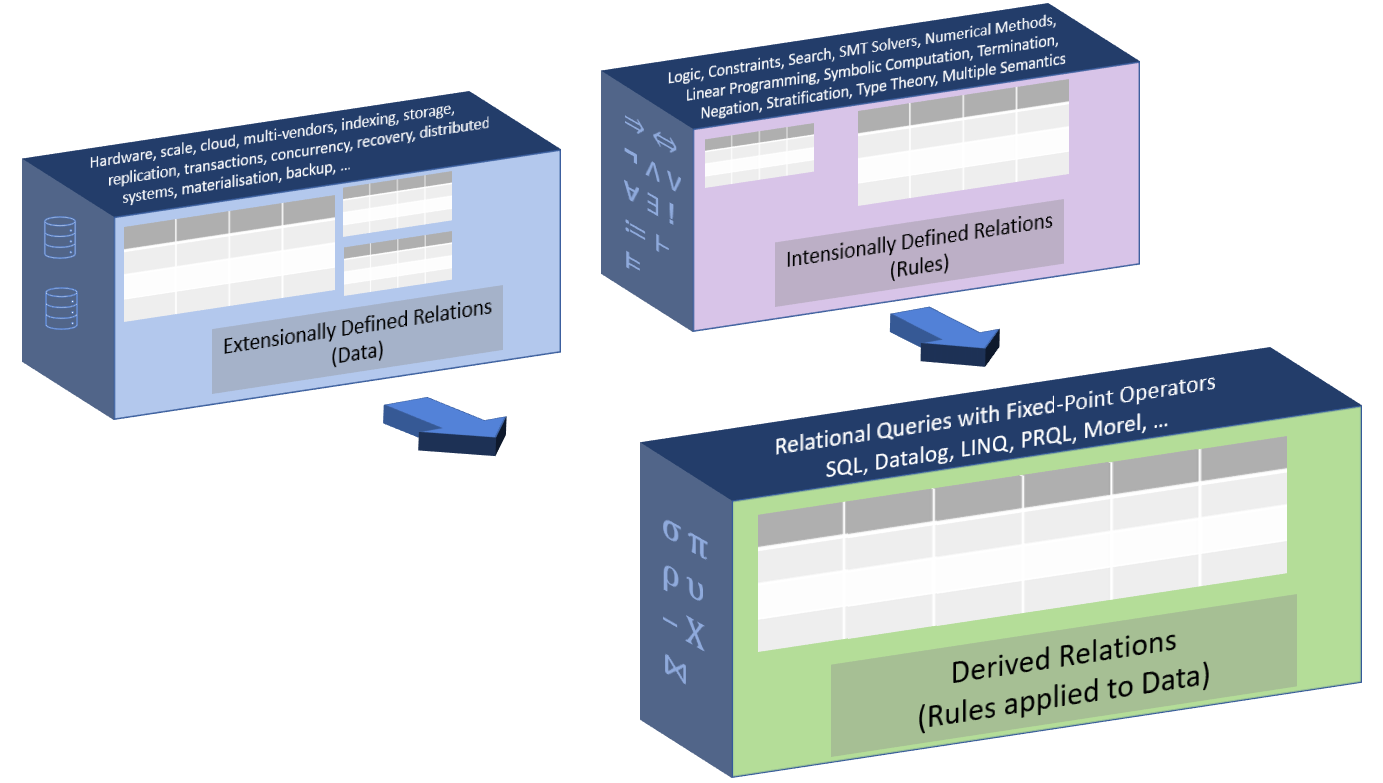
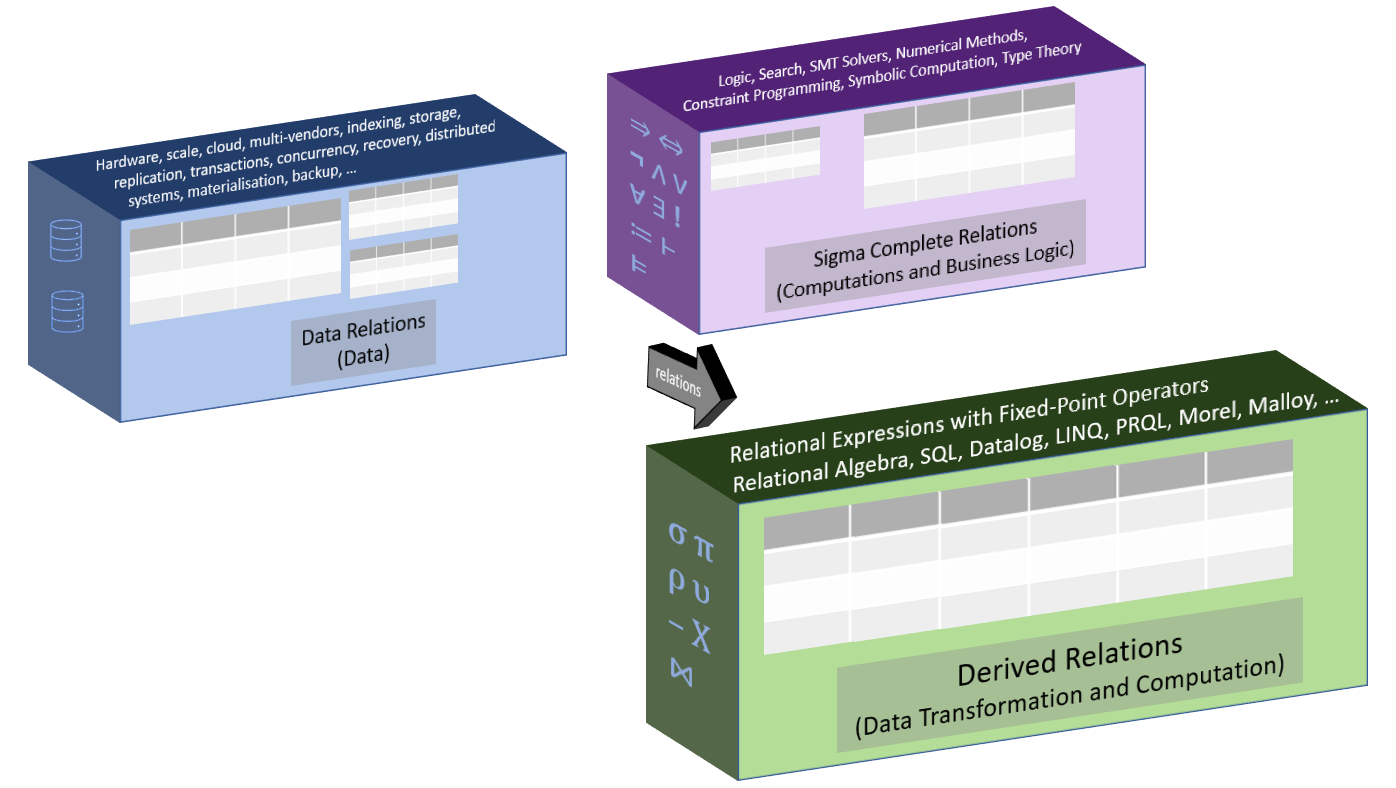
Update 1 to align with conference submission

diff --git a/README.md b/README.md
@@ -2,21 +2,21 @@
 
 <img align="right" width="100" height="100" src="images/jetisu_logo.png">
 
-Jetisu is a toolset for modelling with __intensionally defined relations__.
+Jetisu is a toolset for modelling with __sigma complete relations__.
 - a "__relation__" is a table with columns and rows,
-- "__intensionally defined__" means the table is not defined a list of rows, or derived from other tables, but defined by computable rules.
+- "__sigma complete__" means the table started its life complete and has been shaped by a relational algebraic σ operator (`WHERE` clause).
 
-## Doing for computation and rules what the relational model did for data
+To use an artisanal metaphor complete relations are like a raw block of stone. The `WHERE` clause is like the sculptor's hammer that shapes a stature. And the sigma complete relation is like the finished statue that represents any computable relation.
+
+## Doing for computation and business rules what the relational model did for data
 Prior to the advent of the relational model, programmers' mental model of data spanned multiple levels of abstraction and required them to procedurally navigate either hierarchies or networks to access data. The relational model challenged this approach and provided a stable and robust mental model of data for programmers to use (Schemas and Relational Queries).  
 
-One of the relational model's key benefits is that programmers were, to a greater extent, insulated from innovation in database technologies. This isolation reduced, or removed, the cost of adoption of innovations in technologies such as: hardware, caching, virtualisation, cryptography, storage, sharding, redundancy, indexing, query optimisation, distributed systems, etc.
-
-The Jetisu Toolkit is exploring the possibility that the relational model can do for rules and code what it did for data. And provide a stable and robust mental model of rules for programmers to use (Schemas and Relational Queries). The following diagram is a representation of what this might look like:
+The Jetisu Toolkit is exploring the possibility that the relational model can do for computation and business logic what it did for data. And provide programmers with a way to specify computations and business logic without the need for procedural code. The following diagram is a representation of what this might look like:
 
 <img width="100%" src="images/doing for rules what rm did for data.png">
 
-## Querying Rules As Code
-The examples are chosen to illustrate the benefits (and/or challenges) of querying intensionally defined relations to model rules as code.
+## Rules As Code examples
+The examples are chosen to illustrate the benefits (and/or challenges) of using sigma complete relations to model rules as code.
 - [ACT Conveyance Duty](ACT_Conveyance_Duty.ipynb)
 - [Australian GST](Australian_GST.ipynb)
 - [Birthday Money](Birthday%20Money.ipynb)
@@ -36,24 +36,23 @@ You can  ```docker run``` the example Jupyter notebooks for yourself.
 docker run -p 8888:8888 ghcr.io/davidpratten/jetisu:latest
 ```
 Here is help on [How to run the example notebooks](docs/run_notebooks.md) 
-## Background to "intensionally defined relations"
-Every table has an intension, which is its intended meaning and its extension which is its list of rows. But not all tables 
-are defined in the same way!  
+## Background to "sigma complete relations"
+Let's compare regular data relations with sigma complete relations. 
 
-| How defined                  | Intension (a test that is true if a row is a member of the table) | Extension (list of rows)                       |
-|------------------------------|-------------------------------------------------------------------|------------------------------------------------|
-| Extensionally defined        | Natural Language                                                  | Listed out in a table                          |
-| Derived from other relations | Query in Relational Algebra, SQL, Datalog, including fixed point operators| Generated on demand or materialised for reuse. 
-| __Intensionally defined__    | __Computable Constraints and Rules__                              | __Generated or recognised on demand__          |
+|                  | __Data Relations__ | __Sigma Complete Relations__ |
+|-------------|----------------------------|----------------------------|
+| __Purpose__ | Capture data about entities of interest  | Do computation and implement business rules |
+| __Consists of a rows (tuples) and columns (attributes)__ | Yes | Yes |
+| __When created the table is__ | Empty| Complete<br> (full, containing every possible row)
+| __Specific table is created by__    | Rows are inserted, updated and removed using Data Manipulation Statements (DML) `INSERT`, `UPDATE`, and `DELETE` | The relation is shaped using constraints in a `WHERE` clause. |
+| __Discipline which has focused on these__ | Relational Database community | Constraint Programming community |
 
 
 ### Computed or Algorithmic Relations
-The idea of a non-derived relation that is defined by computable constraints and rules goes back to the 1970's and 1980's at the beginning of the relational database era. Early references include:
+The idea of a relation that is defined by constraints and rules goes back to the 1970's and 1980's at the beginning of the relational database era. Early references include:
 
 - __Algorithmic relations__ proposed in 1975 by Patrick Hall, Peter Hitchcock and Stephen Todd (hereafter HHT). [(PDF)](https://dl.acm.org/doi/pdf/10.1145/512976.512998) 
 - __Computed relations__ described in 1981 by David Maier and David Warren (hereafter MW). [(PDF)](https://dl.acm.org/doi/pdf/10.1145/582318.582345)
-
-These proposals share a common assumption that computation is inherently directed. Neither paper suggested that an algorithmic, or computed relation could be defined in such a way that all directions of computation might be possible "out-of-the-box" with just a single definition.
 
 ### Constraint Programming
 From the late 1980s the discipline of Constraint Programming CP and Constraint Logic Programming CLP emerged and begin to explore what it took to define a relation as a computable predicate over the cross product of the domains of attributes. Here is a survey of this work and a key reference for the constraint programming language [MiniZinc](https://www.minizinc.org):
@@ -61,47 +60,17 @@ From the late 1980s the discipline of Constraint Programming CP and Constraint L
 - __Constraint Logic Programming: A Survey.__ (1994) J. Jaffar, Michael J. Maher [(PDF)](https://www.sciencedirect.com/science/article/pii/0743106694900337?via%3Dihub)
 - __MiniZinc: Towards a Standard CP Modelling Language.__ (2007) N. Nethercote, Peter James Stuckey, Ralph Becket, S. Brand, Gregory J. Duck, Guido Tack [(SpringerLink PDF)](https://link.springer.com/chapter/10.1007/978-3-540-74970-7_38)
 
-The two ideas of computed and algorithmic relations put together with constraint logic programming are foundations of what the Jetisu toolkit calls: "intensionally defined relations".
+The two ideas of computed and algorithmic relations put together with constraint logic programming are foundations of what the Jetisu toolkit calls: "sigma complete relations".
 
-## A theory of intensionally defined relations
-Intensionally defined relations are based on the intuition that the generalisation of an extensionally defined relation is a computable predicate over the cross-product of the domains of the attributes. 
+## A formal definition of sigma complete relations
 
-An __intensionally defined relation__ is 
+An __sigma complete relation__ is 
 - a set of typed attributes (or columns) ```A```, along with
-- a computable predicate (or constraint) ```P``` over the attributes in ```A```, which
-- when further constrained in a relational query, is indistinguishable, (within some error bound 𝜖), from its finite extension of tuples (rows).
+- a computable predicate (or constraint) ```P``` over the attributes in ```A```, 
+- and has the value given by the following relational algebraic expression:
 
-This definition closely mirrors the definition of a relation in relational database theory, and here are some implications of this definition:
+```σP(dom(a1) × dom(a2) × … × dom(aN)) for predicate P and typed attributes a1, a2, …, aN ∈ A.```
 
-__Not derived from other relations:__ An intensionally defined relation is a standalone computational artifact and not derived from other relations. And the three kinds of relations can be expressed formally as follows: 
-
-Given that a __relation__ is an instantiation of: 
-
-```σP(dom(a1) × dom(a2) × … × dom(aN)) for some predicate P and typed attributes a1, a2, …, aN ∈ A.```
-
-- An __extensionally-defined relation__ captures the relation as a list of tuples for which the predicate ```P``` is asserted to be true.
-
-- An __intensionally-defined relation__ directly computes ```σP(dom(A1) × dom(A2) × … × dom(An))``` within error bound 𝜖 in the context of a relational query. 
-
-- A __derived relation__ is the result of a relational query (possibly including fixed-point operators) over one,  or more, relations of any of these three kinds.
-
-__Queried by name:__ An intensionally defined relation appears by `name` in a query in the same way that any other relation does. e.g. If `australian_gst` is an intensionally defined relation then in SQL it will be queried like this: `SELECT gst_amount FROM australian_gst WHERE price=100;`.
-
-__Separation of Concerns__: The three discipline areas of data management, constraint and logic programming, and relational query languages can develop independently and work together in predictable ways around the common abstraction of the relation.
-
-__Robust abstraction:__ Intensionally defined relations protect the relational programmer from needing to master Logic Programming, Constraint Programming, Search, Numerical Methods, Linear Programming, Symbolic Computation, and manage multiple semantics, termination, and negation, closed and open worlds, etc.
-
-__Ready for query optimisation__: Existing query optimisers for extensional and derived relations can be broadened to cover querying intensionally defined relations, leading to efficiency gains over time. 
-
-__Intimate connection between the constraints in the relation's intensional definition and the ```WHERE``` clause in a query over the relation:__ A key implication of the above definition is that the relational algebra ```SELECT``` or ```σ``` operator (```WHERE``` clause in SQL) contains constraints that may be __pushed down__ into the definition of the relation prior to retrieving the rows in the relation, rather than being applied as a filter after retrieving the rows from the relation.
-
-__Single source of truth:__ The relational algebra is inherently agnostic to which attributes are known and used to constrain the relation and which attributes are unknown and which are sought as the answer. An intensionally defined relation may be used to query rules "forward" or in "reverse" depending on what is known prior to querying. Following HHT, the extent to which a relation is omnidirectional is called its 'effectiveness'.
-
-__Write once, use anywhere and Privacy friendly:__ Rules and data are kept in separate relations. Rules may be applied, when appropriate, to the right data by a variant of the relational `join` `⨝` creating a derived relation which is then available for further processing.
-
-__Better together:__ The `natural join` `⨝` of two intensionally defined relations with common attributes has a stronger predicate over its attributes than the two relations taken separately.
-
-__Technology agnostic:__ While it is convenient to use [MiniZinc](https://www.minizinc.org) to define a relation's intension, it is not required. Any language, or system, that supports the above definitions may be used.  As to the relational query language, it is convenient to use SQL, but the same queries could easily also be formulated in Datalog or other relational query language.
 
 ## Built With Open Source Software
 * [sqlglot](https://github.com/tobymao/sqlglot)
